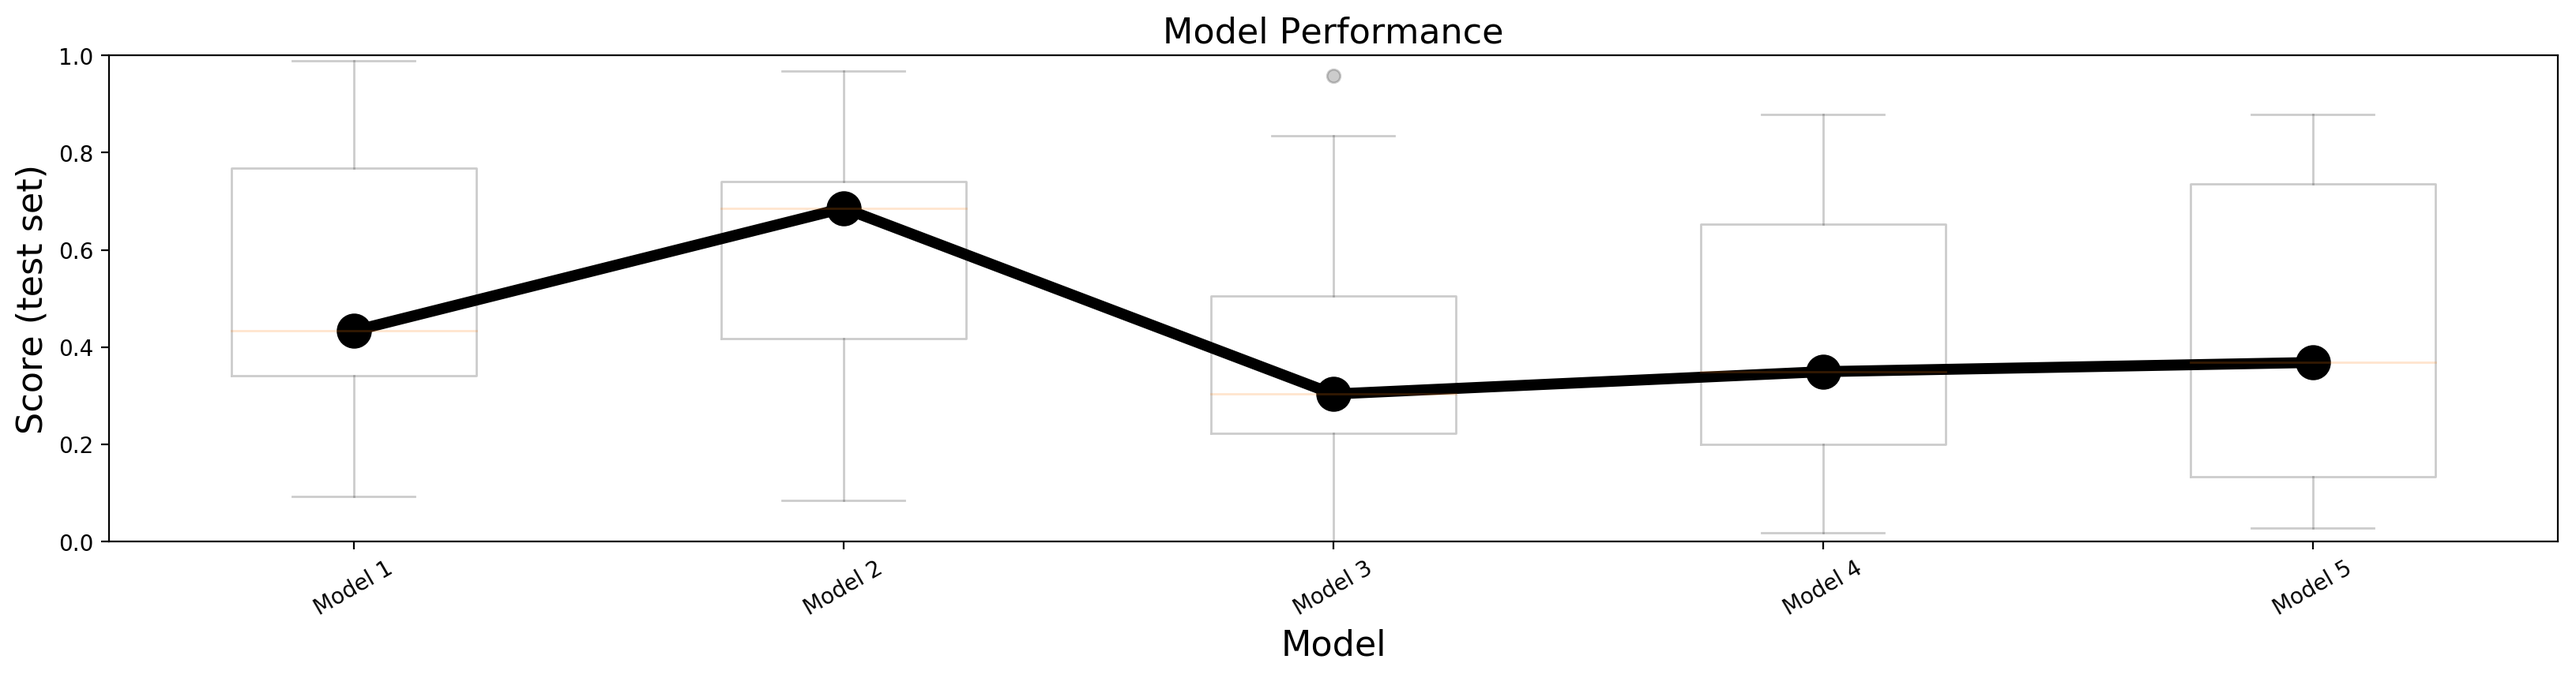
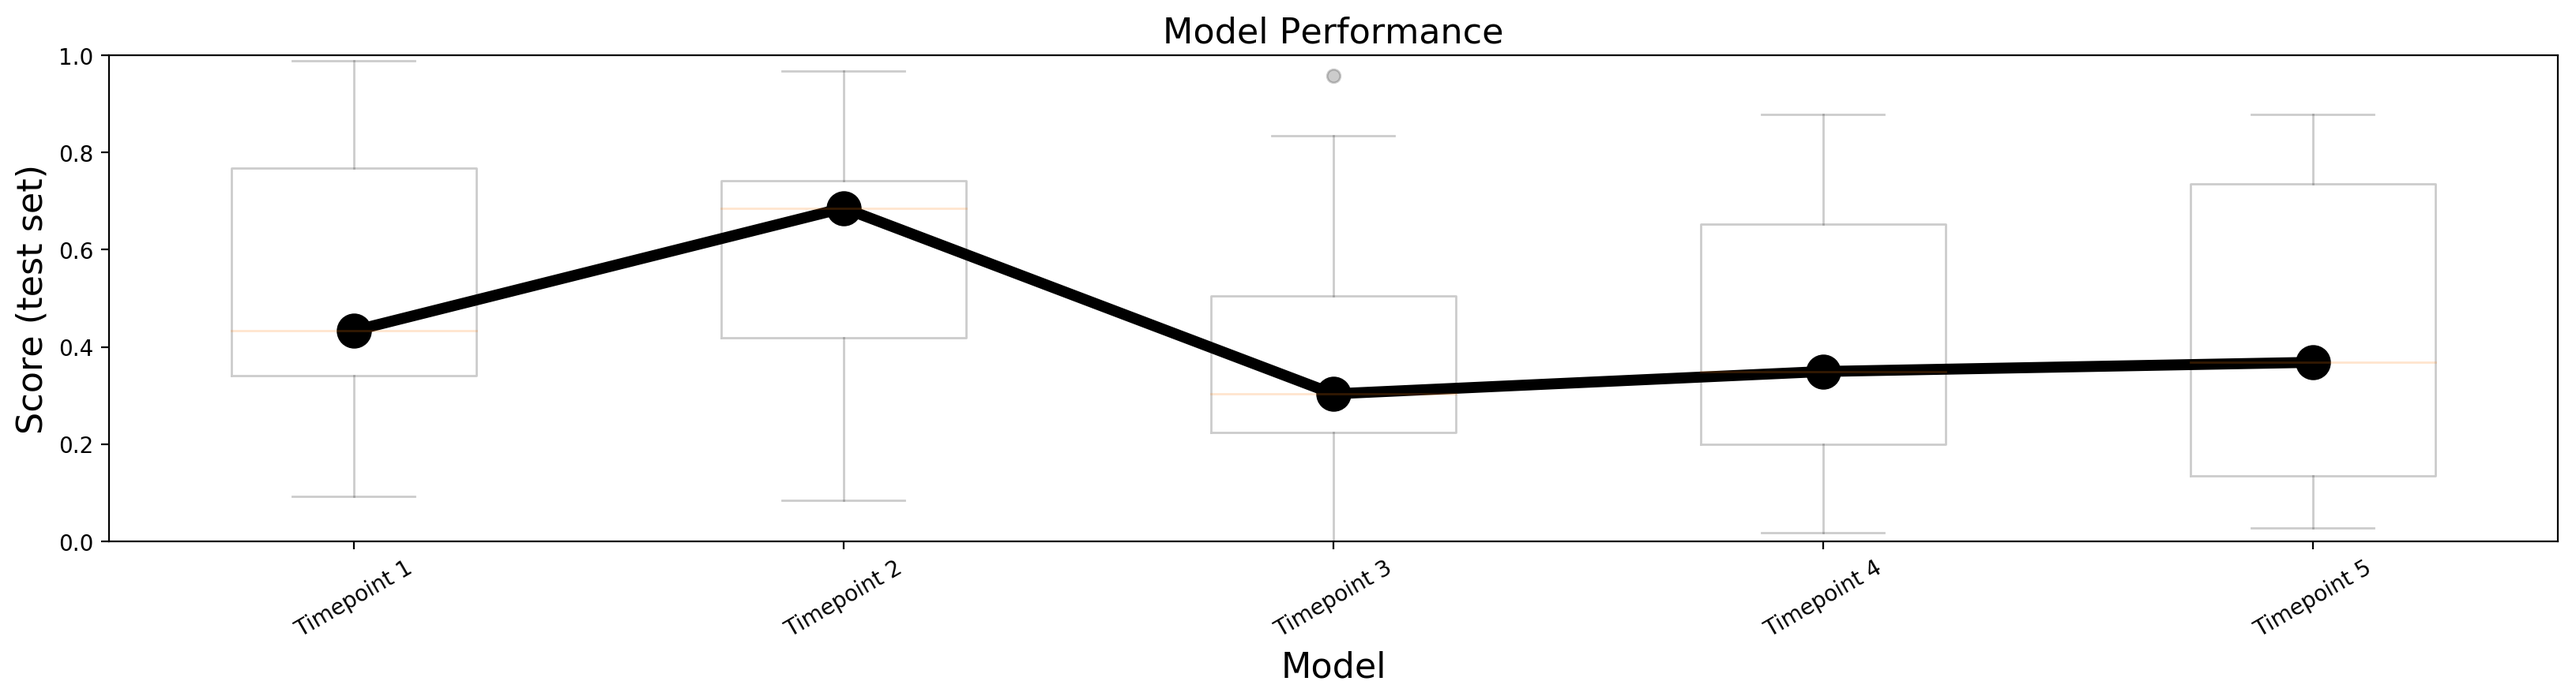
updated README

diff --git a/generate_plot.py b/generate_plot.py
@@ -9,7 +9,7 @@ import numpy as np
 import matplotlib.pyplot as plt
 
 connected = True
-#connected = False
+connected = False
 
 #%%
 
@@ -49,6 +49,9 @@ if connected == True:
             b.set_alpha(0.2)
     #add a line that connects the medians of all boxplots
     ax.plot(xticks,md,marker='o',c='black',lw=5,markersize=15,label='median')
+    xlab = 'Timepoint '
+else:
+    xlab = 'Model '
 
 ax.set_ylabel('Score (test set)',{'fontsize':16})
 ax.set_xlabel('Model',{'fontsize':16})
@@ -58,7 +61,7 @@ ax.set_ylim(0,1)
 #generate the xtick labels
 xtick_labels = []
 for m in xticks:
-    xtick_labels.append('Model '+str(m))
+    xtick_labels.append(xlab+str(m))
 ax.set_xticklabels(xtick_labels,rotation = 30, ha='center',fontsize=10)
 
 #save the figure to disk
@@ -91,8 +94,10 @@ ax.errorbar(xticks,md,yerr,capsize=10,fmt='none',c='black')
 #plot the (optional) connecting line
 if connected == True:
     ax.plot(xticks,md,marker='o',c='black',lw=5,markersize=15,label='median')
+    xlab = 'Timepoint '
 else:
     ax.scatter(xticks,md,marker='o',c='black',s=200)
+    xlab = 'Model '
 
 ax.set_ylabel('Score (test set)',{'fontsize':16})
 ax.set_xlabel('Model',{'fontsize':16})
@@ -103,7 +108,7 @@ ax.set_xticks(xticks)
 #generate the xtick labels
 xtick_labels = []
 for m in xticks:
-    xtick_labels.append('Model '+str(m))
+    xtick_labels.append(xlab+str(m))
 ax.set_xticklabels(xtick_labels,rotation = 30, ha='center',fontsize=10)
 
 if connected == True:

diff --git a/README.md b/README.md
@@ -7,12 +7,12 @@ on the same intependent test set using a performance metric, such as accuracy, D
 ## Independent models
 When evaluating independent models it is useful to plot their performance as a 
 boxplot. Boxplots are a convenient way to visualize the variability of a model's
-performance on a set of datapoints (that comprise the test set).
+performance on a set of datapoints (that comprise the test set). [Box plots](https://en.wikipedia.org/wiki/Box_plot) Visualize the 25th and 75th percentiles of the data distribution as a box, while the median is marked as a horizontal line inside the box. The whiskers can have several different meanings, but the most common (and the one used by default in [matplotlib](https://matplotlib.org/3.1.0/api/_as_gen/matplotlib.pyplot.boxplot.html)) is encompassing all datapoints lying in at most +- 1.5 times the Inter-Quantile-Range (IQR). IQR corresponds to the distance between the 25th and 75th percentiles (i.e., the height of the box).
 
 If we prefer a cleaner look, we can only plot the medians, along with error-bars
 that correspond to the 25th and 75th percentile (showing the interquantile range)
 
-The performance of different models can be visualized via boxplots as
+The performance of different models can be visualized via boxplots as follows:
 ![](model_boxplots.png)
 **Figure 1.** Visualizing the performance of independent models via boxplots.
 
@@ -33,7 +33,7 @@ the median and the interquantile range.
 **Figure 3.** Visualizing the performance of dependent models via boxplots.
 
 ![](model_errorbars_connected.png)
-**Figure 4.** Visualizing the performance of dependent models via median+error bars corresponding to the interquantile range (the 25th and 75th percentiles).
+**Figure 4.** Visualizing the performance of dependent models via median+error bars corresponding to the interquantile range (the 25th and 75th percentiles). This cleaner plot is preferable if we intend to plot a number of different lines (corresponding to different sets of dependent models) on top of each other.
 
 The plots are generated using artificial data. All plots are created in generate_plot.py.
 
